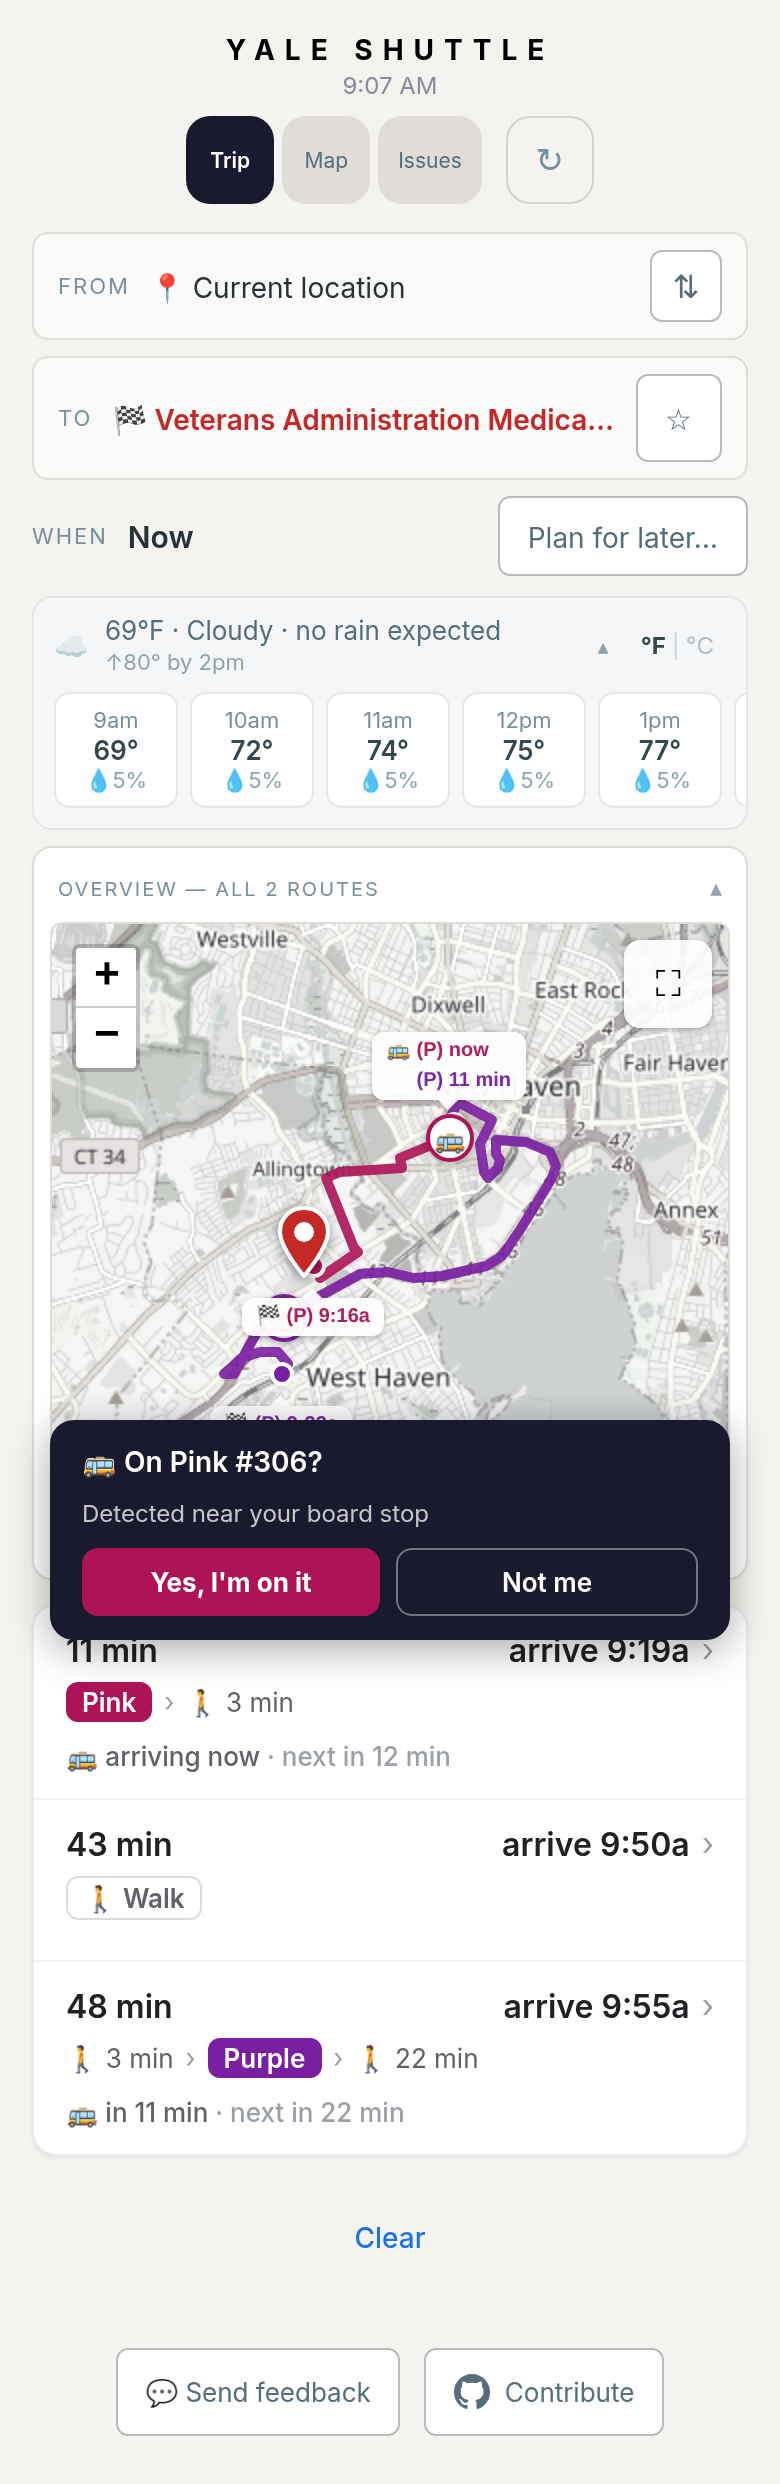
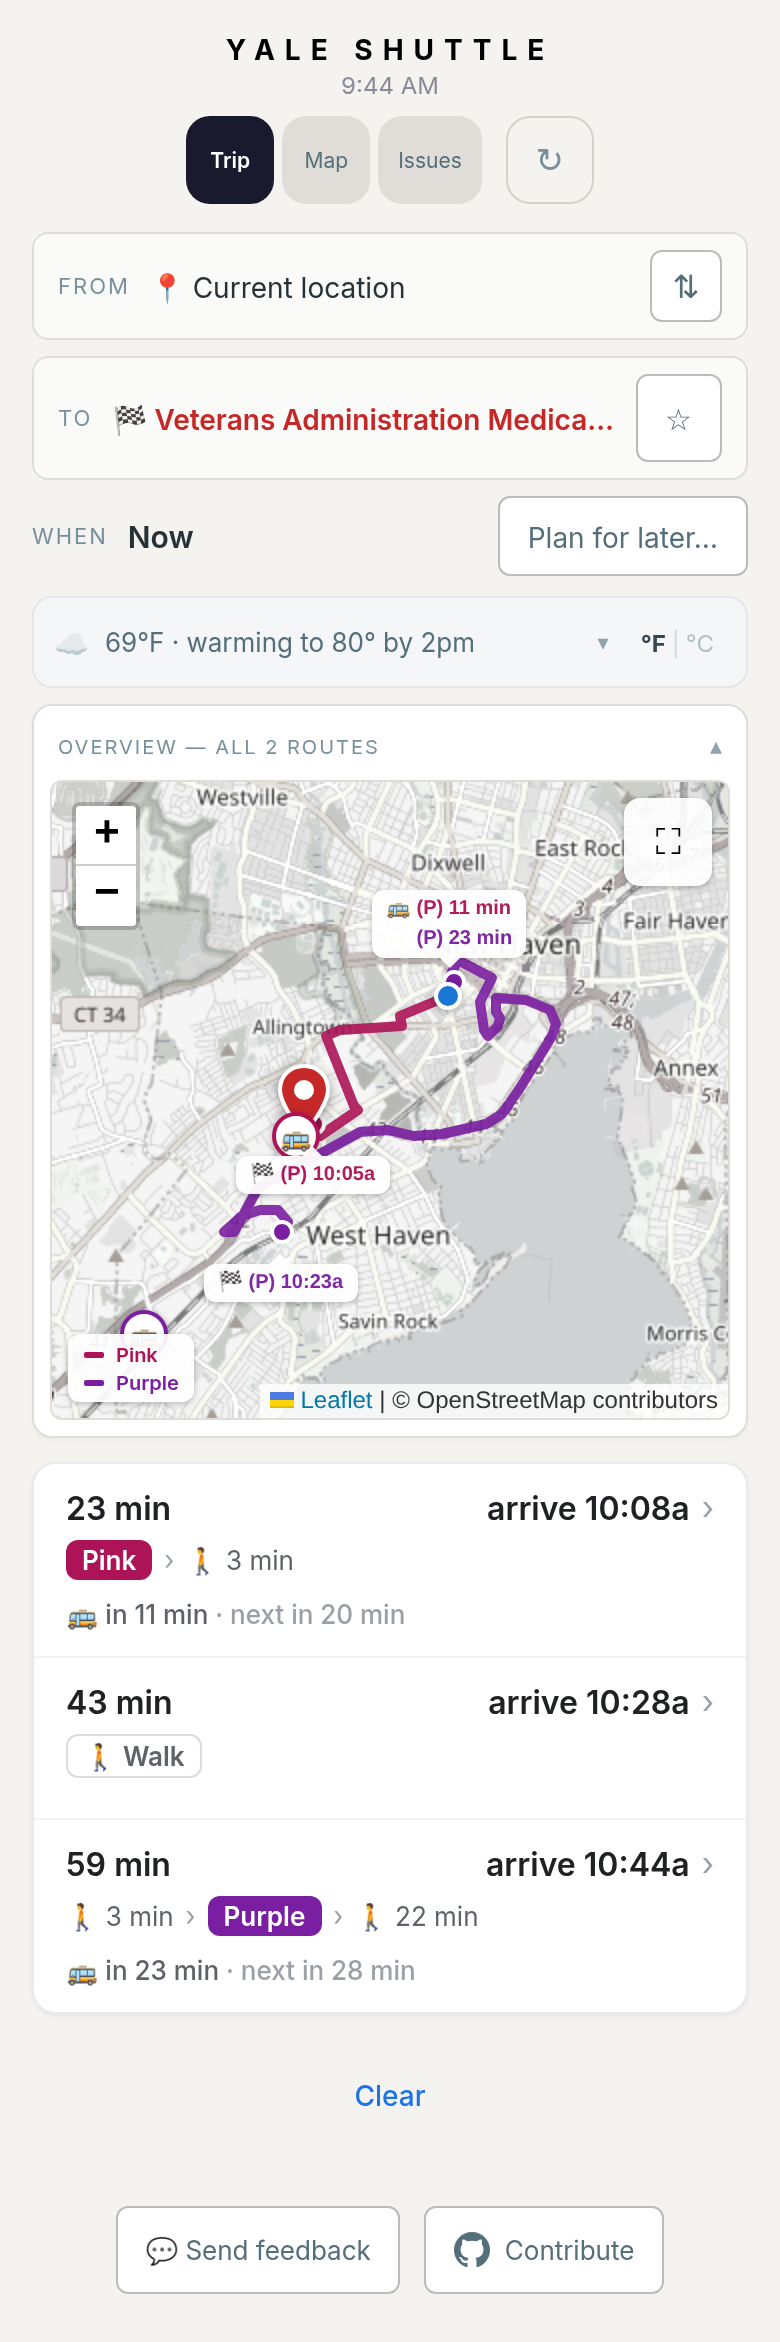
Spell out the trend, and merge it back onto one line
Two operator corrections after seeing the trend live.

**"This looks like it's increasing by 24°C, not the high."** "↑24° by 1pm"
read as a DELTA — up 24 degrees — not a destination temperature. It now
spells the direction out: "warming to 24° by 1pm" / "cooling to 57° by 1pm".
Unambiguous, and it says exactly what it means.

**"Make it one line."** The trend moves back into the same sentence as the
rest of the line — a second row read as two separate facts when it is one.
To fit, it now appears ONLY in the quietest branch: temperature with no
near-term rain and no later-rain clause to report. That is also where it is
most useful — a rider who isn't about to get rained on is the one asking
"what should I expect the next couple hours" — and it is short enough
("69°F · warming to 80° by 2pm") to fit at 390px, MEASURED, not assumed.

`trendShownInMessage` is the one place that decides whether the trend
appears; both weatherMessage and the hourly-strip's cell-marking call it, so
the sentence and the strip can never disagree about which hour is meant. The
≥70% umbrella branch still wraps to two rows on its own — unchanged, and
that was true before any of this work.

1099 tests, typecheck and build clean. Screenshots of both directions
re-taken against a staged build of this commit, now one line each.

Claude-Session: https://claude.ai/code/session_01R6RZ3PXjPXGkAaecqr9Z1H

diff --git a/services/shuttle-v2/web/src/weather.test.ts b/services/shuttle-v2/web/src/weather.test.ts
@@ -7,13 +7,14 @@ import {
   loadTempUnit,
   nextWetHour,
   outlookHours,
-  tempTrend,
   RAIN_PROBABILITY_THRESHOLD,
   rainLikely,
   rainLikelyFrom,
-  trendText,
   saveTempUnit,
   temperatureText,
+  tempTrend,
+  trendShownInMessage,
+  trendText,
   weatherEmoji,
   weatherMessage,
   weatherTone,
@@ -333,25 +334,25 @@ describe("which way it is heading (operator, 2026-09-03)", () => {
     const t = tempTrend(hours, 69)!;
     expect(t.dir).toBe("up");
     expect(t.temperatureF).toBe(80);
-    expect(trendText(t, 69, "F")).toBe("↑80° by 8pm");
+    expect(trendText(t, 69, "F")).toBe("warming to 80° by 8pm");
   });
 
   it("names the LOW while it is cooling", () => {
     const hours = outlookHours([H(18, 5, 66), H(19, 5, 62), H(20, 5, 57), H(21, 5, 58)], now);
     const t = tempTrend(hours, 66)!;
     expect(t.dir).toBe("down");
-    expect(trendText(t, 66, "F")).toBe("↓57° by 8pm");
+    expect(trendText(t, 66, "F")).toBe("cooling to 57° by 8pm");
   });
 
   it("picks the bigger swing when it goes both ways", () => {
     // Warms 2°, then drops 9°: the drop is the fact worth carrying.
     const hours = outlookHours([H(18, 5, 66), H(19, 5, 68), H(20, 5, 59), H(21, 5, 60)], now);
-    expect(trendText(tempTrend(hours, 66), 66, "F")).toBe("↓59° by 8pm");
+    expect(trendText(tempTrend(hours, 66), 66, "F")).toBe("cooling to 59° by 8pm");
   });
 
   it("names the hour it FIRST gets there, not the last hour it stays", () => {
     const hours = outlookHours([H(18, 5, 69), H(19, 5, 80), H(20, 5, 80), H(21, 5, 80)], now);
-    expect(trendText(tempTrend(hours, 69), 69, "F")).toBe("↑80° by 7pm");
+    expect(trendText(tempTrend(hours, 69), 69, "F")).toBe("warming to 80° by 7pm");
   });
 
   it("says nothing when the window is flat, or in the unit shown", () => {
@@ -359,7 +360,7 @@ describe("which way it is heading (operator, 2026-09-03)", () => {
     expect(tempTrend(flat, 66)).toBeNull();
     // 66°F and 67°F are both 19°C: a 1°F climb is nothing to report in °C.
     const tiny = outlookHours([H(18, 5, 66), H(19, 5, 67)], now);
-    expect(trendText(tempTrend(tiny, 66), 66, "F")).toBe("↑67° by 7pm");
+    expect(trendText(tempTrend(tiny, 66), 66, "F")).toBe("warming to 67° by 7pm");
     expect(trendText(tempTrend(tiny, 66), 66, "C")).toBeNull();
   });
 
@@ -373,16 +374,46 @@ describe("which way it is heading (operator, 2026-09-03)", () => {
 
   it("skips hours with no temperature rather than reading them as zero", () => {
     const gappy = outlookHours([H(18, 5, 69), H(19, 5), H(20, 5, 78)], now);
-    expect(trendText(tempTrend(gappy, 69), 69, "F")).toBe("↑78° by 8pm");
+    expect(trendText(tempTrend(gappy, 69), 69, "F")).toBe("warming to 78° by 8pm");
   });
 
-  it("stays OUT of the sentence — it has its own row", () => {
-    // The sentence must stay one line at 390px; the trend renders beneath it.
-    const v = { likely: false, probability: 10, known: true, temperatureF: 66, weatherCode: 0 };
+  it("rides in the SAME line, spelled out so it can't read as a delta", () => {
+    // "↑80°" was read live as "up 80 degrees" rather than "heading to 80
+    // degrees" (operator, 2026-09-03) — spelling it out removes the reading.
+    const hours = outlookHours([H(18, 5, 66), H(19, 5, 68), H(20, 5, 71)], now);
+    const trend = tempTrend(hours, 66);
+    const v = { likely: false, probability: 5, known: true, temperatureF: 66, weatherCode: 0 };
+    const msg = weatherMessage(v, null, "F", trend);
+    expect(msg).toBe("66°F · warming to 71° by 8pm");
+    expect(msg).not.toContain("\n");
+    expect(msg).not.toContain("↑");
+    expect(msg).not.toContain("↓");
+  });
+
+  it("only appears in the quietest branch — never alongside a rain clause", () => {
+    const hours = outlookHours([H(18, 5, 66), H(19, 5, 80)], now);
+    const trend = tempTrend(hours, 66);
+    // Near-term rain outranks the trend.
+    const warn = { likely: true, probability: 85, known: true, temperatureF: 66, weatherCode: 61 };
+    expect(weatherMessage(warn, null, "F", trend)).not.toContain("warming");
+    const mention = { likely: false, probability: 30, known: true, temperatureF: 66, weatherCode: 3 };
+    expect(weatherMessage(mention, null, "F", trend)).not.toContain("warming");
+    // So does the "and later?" rain clause.
     const later = { timeMs: Date.parse("2026-09-03T21:00:00-04:00"), probability: 70 };
-    expect(weatherMessage(v, later, "F")).toBe("66°F · rain likely 9pm (70%)");
+    const dry = { likely: false, probability: 5, known: true, temperatureF: 66, weatherCode: 0 };
+    expect(weatherMessage(dry, later, "F", trend)).not.toContain("warming");
+    // Only the quietest branch carries it — and trendShownInMessage agrees.
+    expect(weatherMessage(dry, null, "F", trend)).toContain("warming");
+    expect(trendShownInMessage(warn, null)).toBe(false);
+    expect(trendShownInMessage(mention, null)).toBe(false);
+    expect(trendShownInMessage(dry, later)).toBe(false);
+    expect(trendShownInMessage(dry, null)).toBe(true);
+  });
+
+  it("falls back to the condition word when there is nothing to warm or cool toward", () => {
+    const v = { likely: false, probability: 5, known: true, temperatureF: 66, weatherCode: 0 };
+    expect(weatherMessage(v, null, "F", null)).toBe("66°F · Clear · no rain expected");
     expect(weatherMessage(v, null, "F")).toBe("66°F · Clear · no rain expected");
-    expect(weatherMessage(v, null, "F")).not.toContain("↑");
   });
 });
 
@@ -419,13 +450,13 @@ describe("the window still bounds what can be named", () => {
     );
     const t = tempTrend(hours, 66)!;
     expect(t.temperatureF).toBe(60);
-    expect(trendText(t, 66, "F")).toBe("↓60° by 9pm");
+    expect(trendText(t, 66, "F")).toBe("cooling to 60° by 9pm");
   });
 
   it("marks in the strip exactly the number the line names", () => {
     const hours = outlookHours([H(18, 5, 69), H(19, 10, 80), H(20, 5, 72)], now);
     const t = tempTrend(hours, 69)!;
-    expect(trendText(t, 69, "F")).toBe("↑80° by 7pm");
+    expect(trendText(t, 69, "F")).toBe("warming to 80° by 7pm");
     expect(hours.filter((h) => h.temperatureF === t.temperatureF)).toHaveLength(1);
   });
 });

diff --git a/services/shuttle-v2/web/src/TransitMap.tsx b/services/shuttle-v2/web/src/TransitMap.tsx
@@ -11,7 +11,7 @@ import { findRouteAnchor, isBusOnRoute, registerRoutePaths } from "./anchor";
 import { announcementsForRoute, type ServiceAnnouncement } from "./announcements";
 import {
   degreesText, hourLabel, loadTempUnit, nextWetHour, outlookHours,
-  tempTrend, temperatureIn, trendText,
+  tempTrend, temperatureIn, trendShownInMessage, trendText,
   RAIN_PROBABILITY_THRESHOLD, rainLikelyFrom, saveTempUnit,
   weatherEmoji, weatherMessage, weatherTone, type TempUnit, type WeatherPayload,
 } from "./weather";
@@ -3010,14 +3010,14 @@ const TripPlanner: FC<{
         // day — it is the temperature the rider is already standing in
         // (operator, 2026-09-03).
         const trend = tempTrend(hours, rain.temperatureF);
-        // Null when the destination reads the same as now IN THE UNIT ON
-        // SCREEN, and then the strip must not mark a cell the line never
-        // mentioned.
-        const span = trendText(trend, rain.temperatureF, tempUnit);
-        // Screen readers get words, not an arrow glyph.
-        const trendSpeech = trend
-          ? `${trend.dir === "up" ? "Up to" : "Down to"} ${degreesText(trend.temperatureF, tempUnit)}`
-          : "";
+        // Marked in the strip ONLY when the LINE actually names the trend —
+        // trendShownInMessage mirrors weatherMessage's own branch order
+        // rather than re-deriving it, so the two can never disagree. Also
+        // null when the destination reads the same as now in the unit on
+        // screen (see trendText).
+        const span = trendShownInMessage(rain, later)
+          ? trendText(trend, rain.temperatureF, tempUnit)
+          : null;
         return (
           <div style={{
             marginBottom: 8,
@@ -3045,27 +3045,13 @@ const TripPlanner: FC<{
                 }}
               >
                 <span aria-hidden="true" style={{ fontSize: warn ? 16 : 14 }}>{weatherEmoji(rain)}</span>
-                <span style={{ flex: 1, minWidth: 0, display: "flex", flexDirection: "column", gap: 1 }}>
-                  <span>{weatherMessage(rain, later, tempUnit)}</span>
-                  {/* The window's high and low get their OWN row, labelled
-                      with the hour they run to. Inside the sentence they
-                      pushed it onto a second line anyway — "69°F ↑80° ↓69° ·
-                      Cloudy · no rain expected" shipped wrapped on
-                      2026-09-03 — and an unlabelled pair of numbers in the
-                      middle of a sentence never said which hours it meant. */}
-                  {span && (
-                    <span
-                      role="img"
-                      aria-label={`${trendSpeech} by ${hourLabel(trend!.timeMs)}`}
-                      style={{
-                        fontSize: 11, fontWeight: 400,
-                        color: warn ? "#a06a10" : "#90a4ae",
-                      }}
-                    >
-                      {span}
-                    </span>
-                  )}
-                </span>
+                {/* One line: "warming to 80° by 2pm", not "↑80°" — a bare
+                    arrow beside a number read as a DELTA to a rider who saw
+                    it live (operator, 2026-09-03), and a second row under the
+                    sentence read as two separate facts when it is one. The
+                    trend only ever appears here, in the quietest branch (see
+                    weatherMessage), which is what keeps it to one line. */}
+                <span style={{ flex: 1, minWidth: 0 }}>{weatherMessage(rain, later, tempUnit, trend)}</span>
                 {hours.length > 1 && (
                   <span aria-hidden="true" style={{ fontSize: 11, color: "#90a4ae", flexShrink: 0 }}>
                     {weatherOpen ? "▴" : "▾"}

diff --git a/services/shuttle-v2/web/src/weather.ts b/services/shuttle-v2/web/src/weather.ts
@@ -234,13 +234,20 @@ export function tempTrend(
 }
 
 /**
- * "↑80° by 1pm" — rendered on its own row under the sentence, not inside it:
- * in the sentence it pushed every branch past one line on a 390px phone, and
- * the dry branch ("69°F ↑80° ↓69° · Cloudy · no rain expected") shipped
- * wrapped on 2026-09-03 before this was caught live.
+ * "warming to 80° by 1pm" — spelled out, not "↑80°": a bare arrow beside a
+ * plain number reads as a DELTA ("up 80 degrees") rather than a destination,
+ * which is exactly the reading an operator got from it live (2026-09-03).
+ *
+ * Rides in the SAME sentence as the rest of the line, not its own row — a
+ * second row was tried first and read as two separate facts when it is one.
+ * To fit, it only ever appears in the quietest branch (temperature + no
+ * near-term rain), which is also the branch where it is most useful: a rider
+ * who is not about to get rained on is the one asking "what should I expect
+ * the next couple hours". See weatherMessage for how that trade is made.
  *
  * Null when the destination reads the same as now IN THE UNIT ON SCREEN —
- * 66°F and 67°F are both 19°C, and "19° by 1pm" beside "19°C" says nothing.
+ * 66°F and 67°F are both 19°C, and "warming to 19°" beside "19°C" says
+ * nothing.
  */
 export function trendText(
   trend: TempTrend | null | undefined,
@@ -252,7 +259,8 @@ export function trendText(
   const from = temperatureIn(nowF, unit);
   if (to == null || to === from) return null;
   const label = hourLabel(trend.timeMs);
-  return `${trend.dir === "up" ? "↑" : "↓"}${to}°${label ? ` by ${label}` : ""}`;
+  const verb = trend.dir === "up" ? "warming" : "cooling";
+  return `${verb} to ${to}°${label ? ` by ${label}` : ""}`;
 }
 
 /** "68°" — for the hourly strip, where the unit is stated once on the toggle. */
@@ -344,10 +352,22 @@ export function weatherTone(v: RainVerdict): WeatherTone {
  * are NOT in here for the same reason; they render on their own row (see
  * trendText). The hour-by-hour lives behind the tap.
  */
+/**
+ * True exactly when weatherMessage will spend its words on the temperature
+ * trend rather than rain or the condition word — i.e. the quietest branch.
+ * Shared with the caller so the hourly strip marks a cell ONLY when the line
+ * actually named it; string-matching the rendered message to answer this
+ * would work but silently rot the moment the wording changes.
+ */
+export function trendShownInMessage(v: RainVerdict, later: ForecastHour | null | undefined): boolean {
+  return v.known && v.probability < RAIN_MENTION_THRESHOLD && !later;
+}
+
 export function weatherMessage(
   v: RainVerdict,
   later?: ForecastHour | null,
   unit: TempUnit = "F",
+  trend?: TempTrend | null,
 ): string {
   if (!v.known) return "";
   const temp = temperatureText(v.temperatureF, unit);
@@ -370,6 +390,13 @@ export function weatherMessage(
   if (later) {
     return `${head}rain likely ${hourLabel(later.timeMs)} (${later.probability}%)`;
   }
+  // Nothing about rain left to say (trendShownInMessage agrees), so the
+  // line's spare words go to the temperature trend instead of the condition
+  // word — "warming to 80° by 2pm" answers "what should I expect the next
+  // couple hours" better than "Cloudy" does, and MEASURED (390px), the two
+  // together wrap the line.
+  const trendClause = trendText(trend, v.temperatureF, unit);
+  if (trendClause) return `${head}${trendClause}`;
   const cond = conditionText(v.weatherCode);
   // A wet code with a low chance ("Rain", 10%) must not print "Rain · no rain
   // expected" — the condition alone is the honest line.

diff --git a/CLAUDE.md b/CLAUDE.md
@@ -152,13 +152,22 @@ words as fit one phone line: "66°F · rain likely 11pm (70%)". It drops the
 condition word ("Clear") whenever it has an hour to name, because the hour is
 the useful half.
 
-**Where the temperature is HEADING rides on a SECOND row**, muted: one number,
-not two ("↑80° by 2pm" while it warms, "↓57° by 2pm" while it cools). The
-extreme further from the current temperature wins, drawn from the hours the
-strip lists — not the calendar day, most of which a rider has already lived
+**Where the temperature is HEADING rides in the SAME sentence**, spelled out
+("warming to 80° by 2pm" / "cooling to 57° by 2pm") rather than an arrow —
+"↑80°" read live as "up 80 degrees" (a delta) rather than a destination, and a
+separate row under the sentence read as two facts when it is one. The extreme
+further from the current temperature wins, drawn from the hours the strip
+lists — not the calendar day, most of which a rider has already lived
 through. Showing both ends was the first cut and the operator cut it down
 (2026-09-03): at 9am on a warming day the low is the temperature you are
-already standing in. Inside the sentence they wrapped it: that
+already standing in.
+
+**The trend only ever occupies the QUIETEST branch** — temperature with no
+near-term or later rain to report (`trendShownInMessage` in `weather.ts`,
+shared by the line and by which hourly-strip cell gets marked, so the two can
+never disagree). Every other branch was measured too long to add it to at
+390px: the ≥70% umbrella branch already wraps to two rows on its own, and
+that is unchanged, deliberate, and left alone. Inside the sentence they wrapped it: that
 shipped on 2026-09-03 and was caught on production, so measure the LONGEST
 branch (dry-with-condition, and the ≥70% umbrella one) at 390px before
 touching this line, not the shortest. The ≥70% branch still takes two rows by
